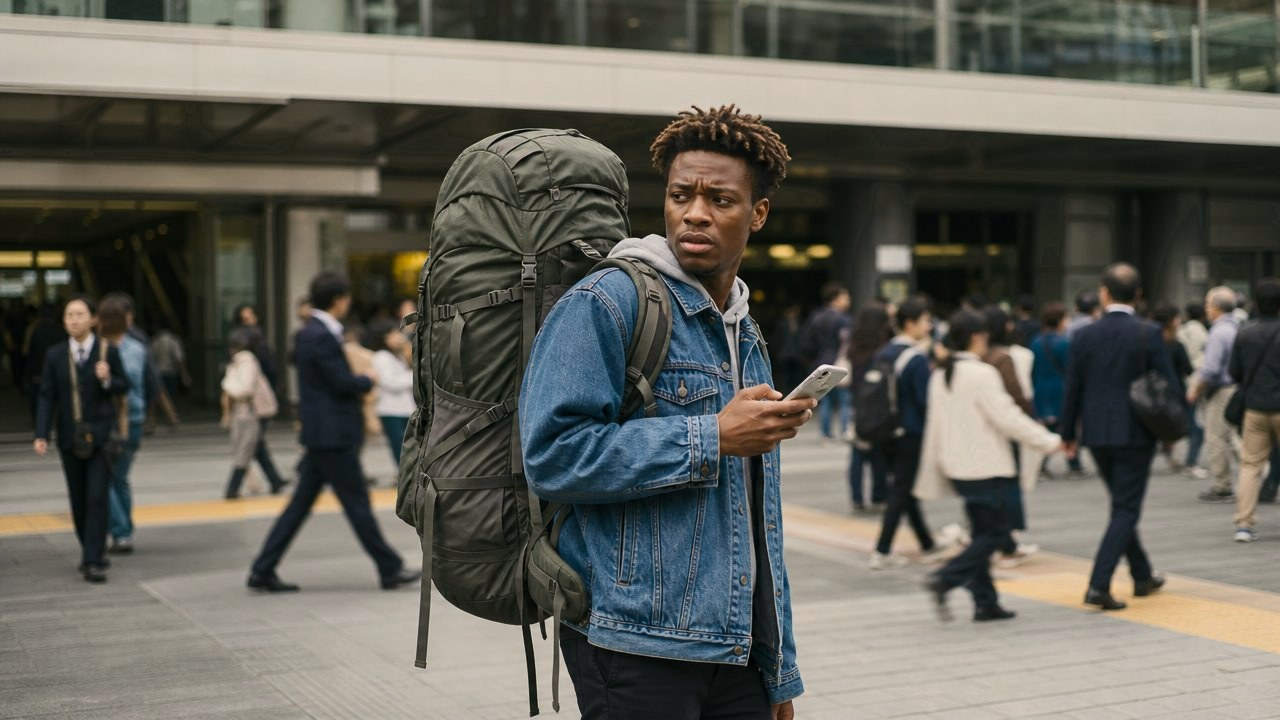
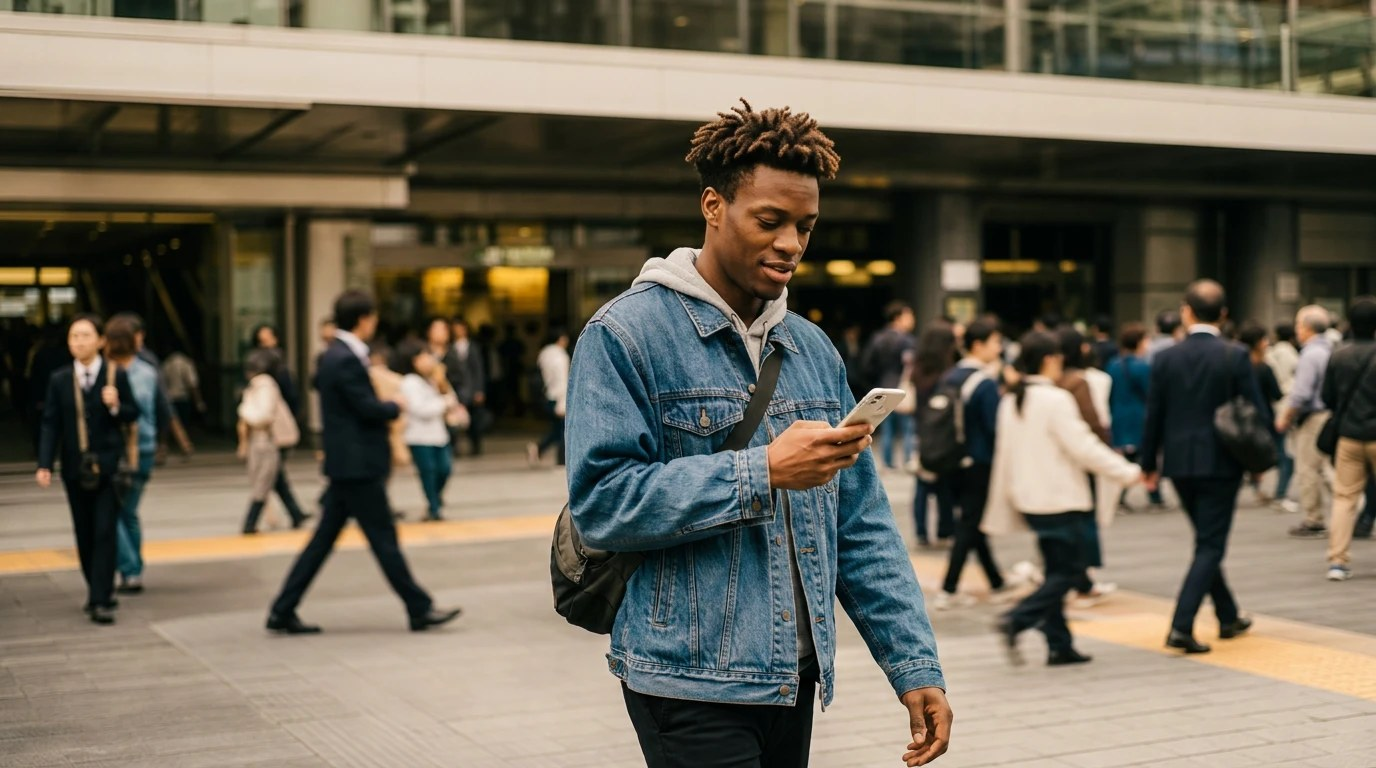
携帯ヒーローを「写真主役」に作り直す。Try Itの場面写真も差し替え
HARU様指摘: 携帯で見ると写真がほとんど見えず、エスプレッソの単色面が
主役になっていた(「写真＋デザイン」ではなく「色面の中に写真」に
見える)。以下、いただいた仕様どおりに直した:

- 携帯の.hero__mediaを、帯(画面の20%程度)から卓上と同じ「ヒーロー
  全体に敷く」形に変更。写真がファーストビューのほとんどを占める。
- グラデーションを帯専用の急な階調から、ヒーロー全体にかかる
  連続的な階調(写真→やわらかい暗部→エスプレッソが徐々に濃くなる)
  に作り直した。上のほうはできるだけ写真を見せ、文字が乗る帯で
  初めて読める濃さに達するようにする。
- ついでに実測でバグを発見: 携帯のobject-position(50% 22%)が
  2026-09-28の写真差し替え(scene-kyoto-street.jpg)の時に直されて
  おらず、旧写真(hero-speakup.png)向けの値のまま残っていた。今回
  写真主役にするタイミングで、女性の顔が縦長の切り取りでも常に
  入るよう(58% 26%)に直した。

Try Itの写真もHARU様から新しいものを受け取り、差し替え(help-04.jpg)。

diff --git a/speakup/index.html b/speakup/index.html
@@ -245,47 +245,40 @@
     position: relative; overflow: hidden;
     background: var(--deep); color: var(--cream);
     padding: 0 !important; text-align: left;
-
-    /* 2026-09-28: 「文字塊の実測値をsvhから引く」方式(--hero-text)を
-       やめた。この値はローカルの検証環境(Linuxのフォールバック書体)で
-       測るしかなく、実機のSafari(San Francisco / ヒラギノ角ゴ)とは
-       字送り・行の折り返しが異なるため、測り直すたびに実機で崩れる
-       事故が2回続いた(HARU様の実機スクリーンショットで発覚)。
-       文字の分量に一切左右されない、画面の高さだけを見る式に変える。
-       「1画面に収まる」ことより「絶対に崩れない」ことを優先する。
-       2026-09-28: HARU様指摘「携帯で見ると真っ黒」。実測すると、
-       ヒーロー全体(971px)が携帯の画面(844px)より高く、開いた瞬間は
-       画面の100%が暗い状態になっていた(ページ全体では暗い部分は
-       15%しかないのに)。帯(写真部分)は暗い部分のごく一部で、
-       大半は文字が乗っている地色(--deep)の余白。帯だけ削っても
-       827pxにしかならず(844pxに対し覗きは17pxで実質見えない)、
-       文字まわりの余白も一緒に削って792px程度まで下げ、次の
-       明るい段(2026-09-30に端末の作例を外したあとは#try-it)が
-       開いた瞬間から見えるようにする。 */
-    --hero-band: clamp(170px, 20vh, 420px);
   }
-  .hero__media {
-    position: absolute; top: 0; left: 0; right: 0;
-    height: var(--hero-band); margin: 0;
-  }
+  /* 2026-09-30 HARU様指摘: 「写真が十分に見えていない」「エスプレッソの
+     Solid面が大きすぎて、写真よりも色面が主役になっている」。
+     以前は帯(--hero-band、画面の20%程度)だけに写真を敷き、その下は
+     ほぼ全部 var(--deep) の単色だった。帯をやめ、卓上(900px以上)と
+     同じく写真をヒーロー全体に敷き、文字はその上に階調(グラデーション)
+     ごしに重ねる — 「写真の外側を塗りつぶす」のではなく「写真の上に
+     文字を乗せる」形にする。 */
+  .hero__media { position: absolute; inset: 0; height: auto; margin: 0; }
   .hero__media picture { display: block; width: 100%; height: 100%; }
   .hero__media img {
     width: 100%; height: 100%; object-fit: cover; display: block;
-    /* 2026-08-28: 写真を新しいもの（hero-speakup.png）に差し替え。
-       この素材はもとから男性が左・女性が右に写っている構図なので、
-       前の素材のような左右反転は不要（HARU様が2枚を見比べて選定）。 */
-    object-position: 50% 22%;
+    /* 2026-09-28に写真をscene-kyoto-street.jpgへ差し替えた際、卓上側の
+       object-positionは直したが携帯側は帯(小さい表示)のまま放置されて
+       いた(旧hero-speakup.png向けの50% 22%が残っていた)。ここも
+       写真主役に直すタイミングで直す。この写真は女性が画面のやや右・
+       光の当たる側にいる構図なので、女性の顔が縦長の切り取りでも
+       常に入るように調整(男性は構図上どうしても大きく切れる —
+       横長の写真を縦長の画面いっぱいに敷く以上、2人を両方フルに
+       収めることはできないため、主役の女性を優先する)。 */
+    object-position: 58% 26%;
   }
-  /* 階調は帯の中だけ。**下端で地色に到達させる**のが肝心で、
-     途中で止めると帯の切れ目が一本の線になって見える。 */
+  /* 階調は帯ではなく**ヒーロー全体**にかける。写真→やわらかい暗部→
+     エスプレッソが徐々に濃くなる、の連続したグラデーションにする
+     (急に色が変わる「一本の線」を作らない)。上のほうはできるだけ
+     写真を見せ、文字が乗り始める中盤から下で読める濃さまで持っていく。 */
   .hero__media::after {
     content: ''; position: absolute; inset: 0;
     background: linear-gradient(180deg,
-      rgba(31,27,23,0) 0%, rgba(31,27,23,.04) 34%, rgba(31,27,23,.26) 48%,
-      rgba(31,27,23,.70) 60%, rgba(31,27,23,.93) 72%, rgba(31,27,23,1) 84%);
+      rgba(31,27,23,0) 0%, rgba(31,27,23,.05) 26%, rgba(31,27,23,.18) 38%,
+      rgba(31,27,23,.42) 50%, rgba(31,27,23,.68) 60%, rgba(31,27,23,.87) 70%,
+      rgba(31,27,23,.97) 82%, rgba(31,27,23,1) 92%);
   }
-  /* 文字の頭は帯の下端から 88px 上。帯が短い端末で上げすぎると顔にかかる。 */
-  .hero__in { position: relative; padding-block: max(96px, calc(var(--hero-band) - 88px)) clamp(28px, 6vw, 64px); }
+  .hero__in { position: relative; padding-block: clamp(240px, 42vh, 380px) clamp(28px, 6vw, 64px); }
   /* 前書きは小さい文字なので 4.5:1 が要る。濃い銅（--gold）だと写真の上で
      3:1 も出ない。同じ色相の明るいほうへ振る（追補4 §169）。 */
   .hero .eyebrow { color: var(--gold-pale); gap: 10px; justify-content: flex-start; }
